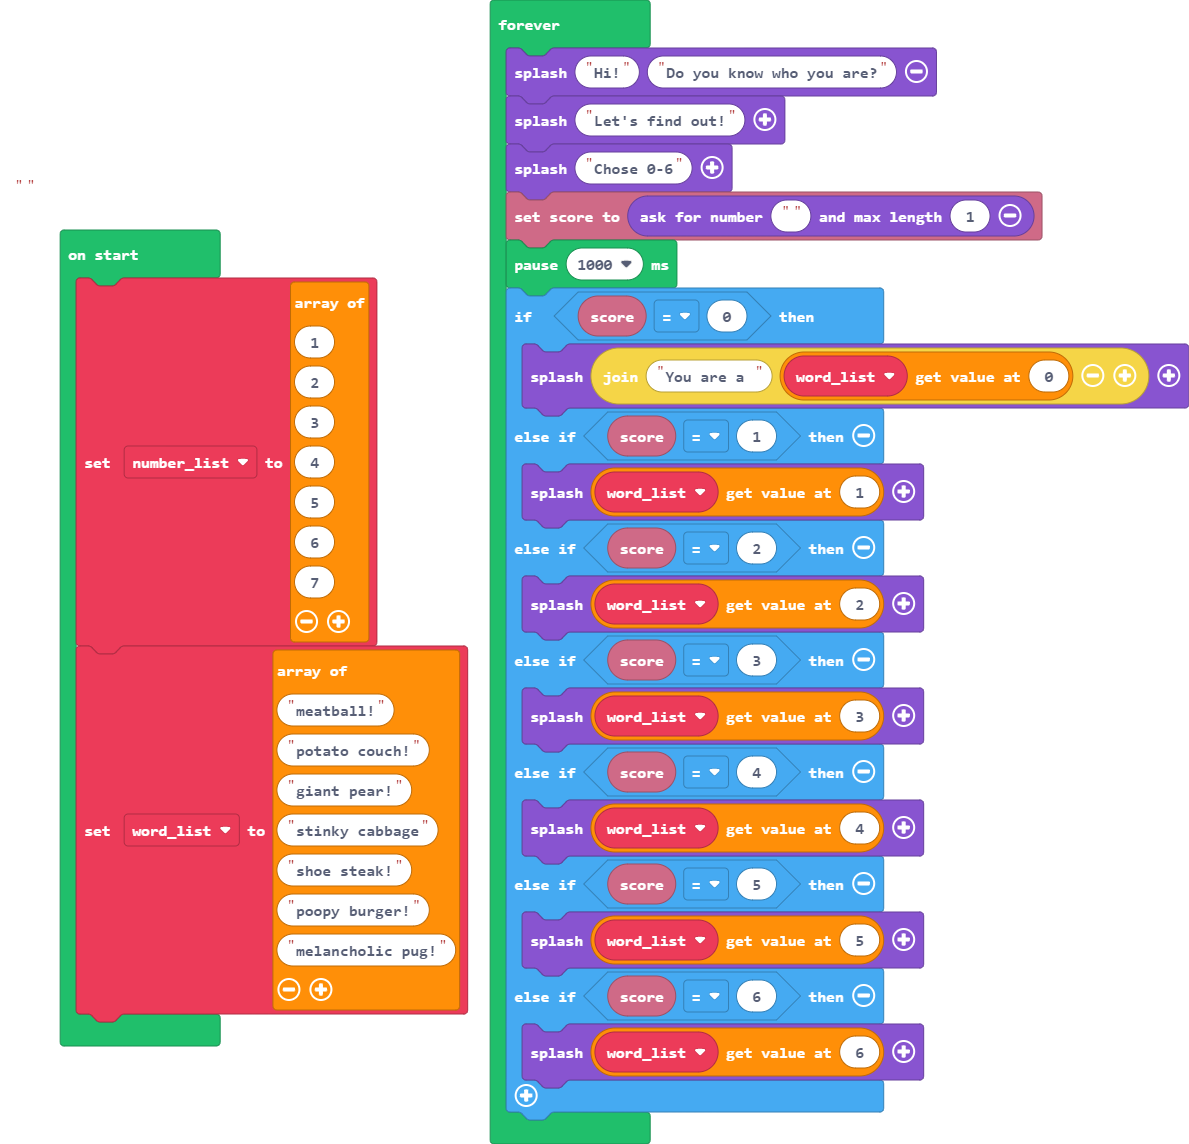
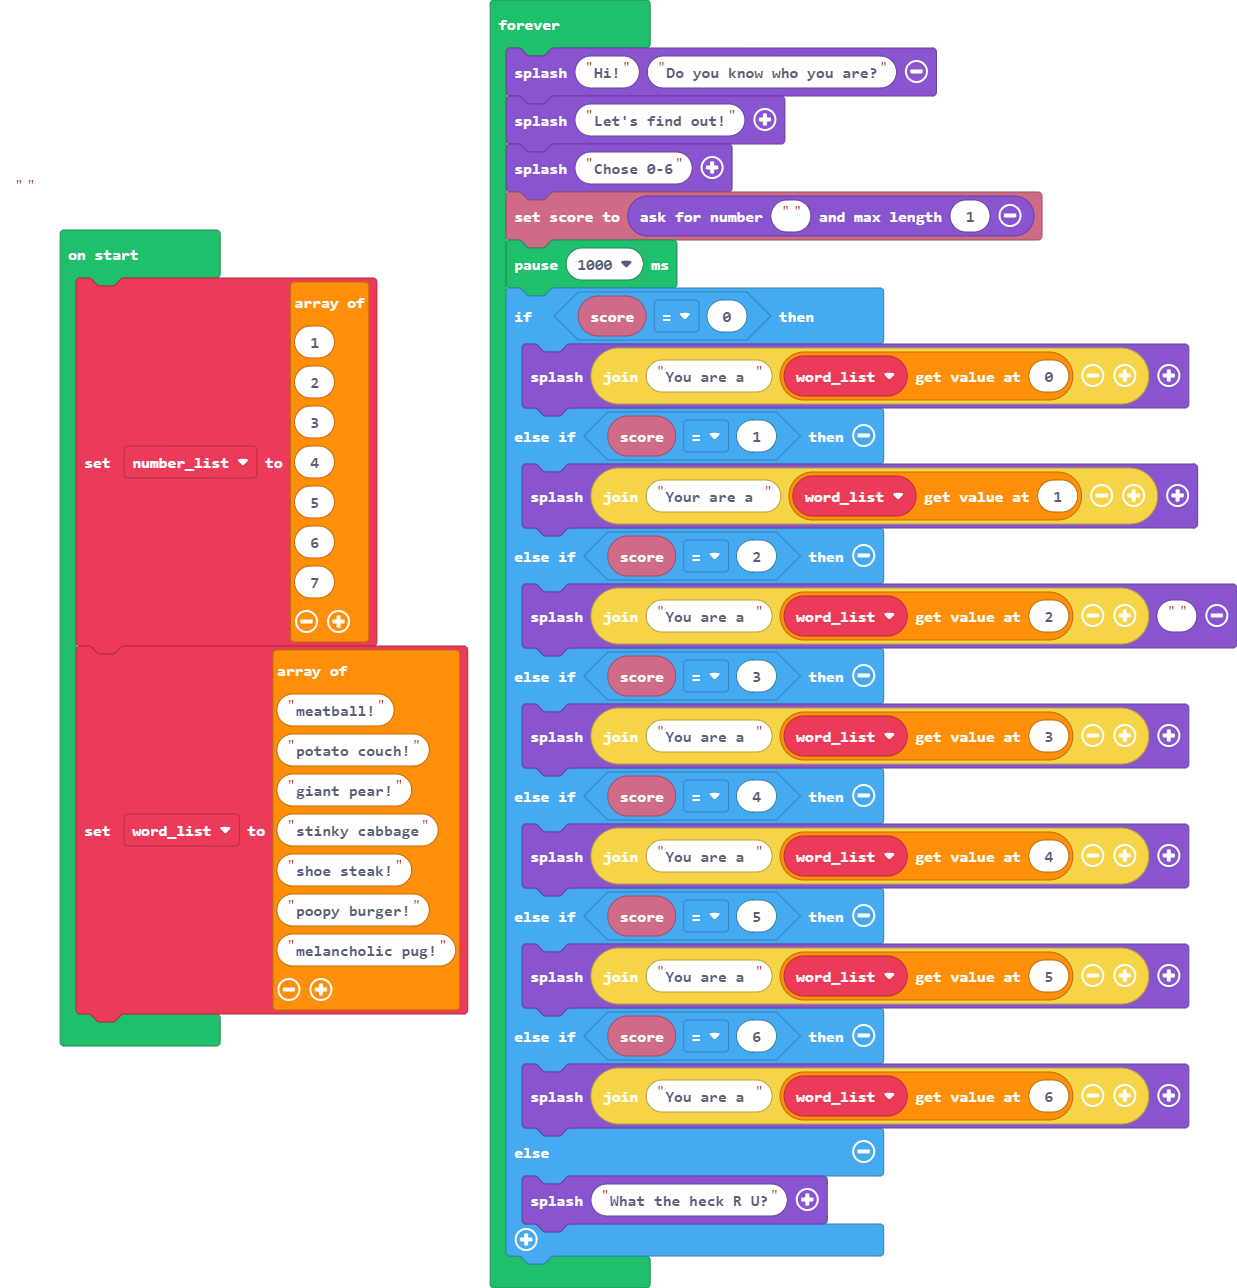
Update main.blocks, main.ts

diff --git a/main.ts b/main.ts
@@ -25,16 +25,18 @@ forever(function () {
     if (info.score() == 0) {
         game.splash("You are a " + word_list[0])
     } else if (info.score() == 1) {
-        game.splash(word_list[1])
+        game.splash("Your are a " + word_list[1])
     } else if (info.score() == 2) {
-        game.splash(word_list[2])
+        game.splash("You are a " + word_list[2], "")
     } else if (info.score() == 3) {
-        game.splash(word_list[3])
+        game.splash("You are a " + word_list[3])
     } else if (info.score() == 4) {
-        game.splash(word_list[4])
+        game.splash("You are a " + word_list[4])
     } else if (info.score() == 5) {
-        game.splash(word_list[5])
+        game.splash("You are a " + word_list[5])
     } else if (info.score() == 6) {
-        game.splash(word_list[6])
+        game.splash("You are a " + word_list[6])
+    } else {
+        game.splash("What the heck R U?")
     }
 })
